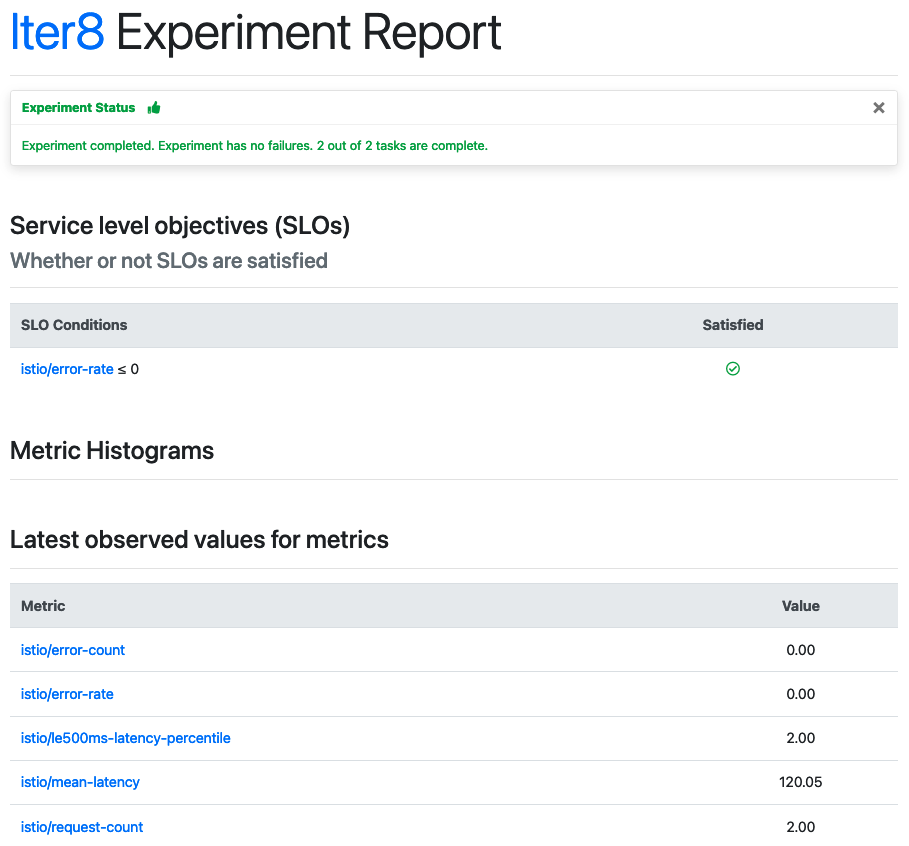
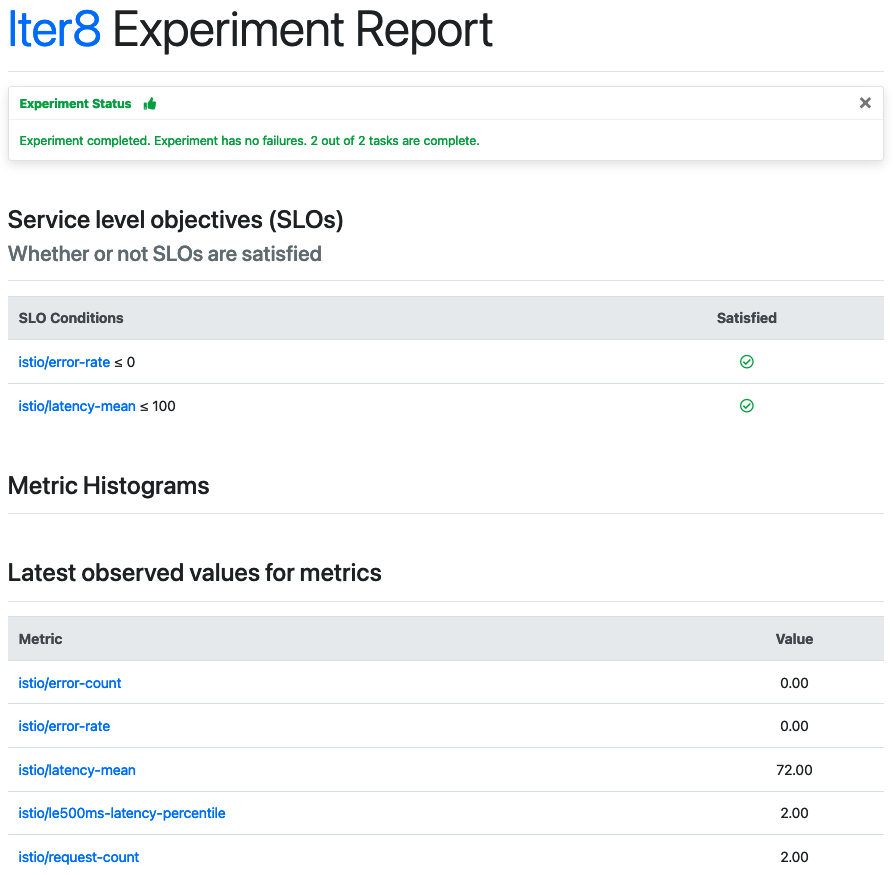
Address comments

diff --git a/docs/tutorials/load-test-http/expreport.md b/docs/tutorials/load-test-http/expreport.md
@@ -17,21 +17,33 @@
         Whether or not service level objectives (SLOs) are satisfied:
         *************************************************************
 
-          SLO Conditions        |Satisfied
-          --------------        |---------
-          istio/error-rate <= 0 |true
+          SLO Conditions                   |Satisfied
+          --------------                   |---------
+          http/error-rate <= 0             |true
+          http/latency-mean (msec) <= 50   |true
+          http/latency-p90 (msec) <= 100   |true
+          http/latency-p97.5 (msec) <= 200 |true
           
 
         Latest observed values for metrics:
         ***********************************
 
-          Metric                           |value
-          -------                          |-----
-          istio/error-count                |0.00
-          istio/error-rate                 |0.00
-          istio/le500ms-latency-percentile |2.00
-          istio/mean-latency               |120.05
-          istio/request-count              |2.00
+          Metric                     |value
+          -------                    |-----
+          http/error-count           |0.00
+          http/error-rate            |0.00
+          http/latency-max (msec)    |8.93
+          http/latency-mean (msec)   |5.49
+          http/latency-min (msec)    |2.71
+          http/latency-p50 (msec)    |5.38
+          http/latency-p75 (msec)    |6.71
+          http/latency-p90 (msec)    |7.77
+          http/latency-p95 (msec)    |8.27
+          http/latency-p97.5 (msec)  |8.60
+          http/latency-p99 (msec)    |8.80
+          http/latency-p99.9 (msec)  |8.92
+          http/latency-stddev (msec) |1.57
+          http/request-count         |100.00
         ```
 
 === "HTML"

diff --git a/docs/tutorials/slo-validation-istio/basicusage.md b/docs/tutorials/slo-validation-istio/basicusage.md
@@ -84,9 +84,9 @@ To collect metrics from a service, following must be set:
 ```shell
 iter8 launch -c slo-validation-istio \
 --set endpoint=http://localhost:9090 \
---set destination_workload=httpbin-v1 \
---set destination_workload_namespace=default \
---set startingTime="Feb 4\, 2014 at 6:05pm (PST)"
+--set versionInfo.destination_workload=httpbin-v1 \
+--set versionInfo.destination_workload_namespace=default \
+--set versionInfo.startingTime="Feb 4\, 2014 at 6:05pm (PST)"
 ```
 
 ## Validate SLOs
@@ -110,26 +110,26 @@ To validate SLOs in addition to collecting metrics, SLOs must also be provided.
 iter8 launch -c slo-validation-istio \
 --noDownload \
 --set endpoint=http://localhost:9090 \
---set destination_workload=httpbin-v1 \
---set destination_workload_namespace=default \
---set startingTime="Feb 4\, 2014 at 6:05pm (PST)" \
+--set versionInfo.destination_workload=httpbin-v1 \
+--set versionInfo.destination_workload_namespace=default \
+--set versionInfo.startingTime="Feb 4\, 2014 at 6:05pm (PST)" \
 --set SLOs.istio/error-rate=0 \
---set SLOs.istio/latency-mean=50
+--set SLOs.istio/latency-mean=100
 ```
 
 In the experiment above, the following SLOs are validated.
 
 - error rate is 0
-- mean latency is under 50 msec
+- mean latency is under 100 msec
 
 ***
 
 ## View experiment report
 
---8<-- "docs/tutorials/load-test-http/expreport.md"
+--8<-- "docs/tutorials/slo-validation-istio/expreport.md"
 
 ***
 
 ## Assert experiment outcomes
 
---8<-- "docs/tutorials/load-test-http/assert.md"
+--8<-- "docs/tutorials/slo-validation-istio/assert.md"

diff --git a/docs/tutorials/slo-validation-istio/expreport.md b/docs/tutorials/slo-validation-istio/expreport.md
@@ -1,0 +1,44 @@
+=== "Text"
+    ```shell
+    iter8 report
+    ```
+
+    ??? note "The text report looks like this"
+        ```shell
+
+        Experiment summary:
+        *******************
+
+          Experiment completed: true
+          No task failures: true
+          Total number of tasks: 2
+          Number of completed tasks: 2
+
+        Whether or not service level objectives (SLOs) are satisfied:
+        *************************************************************
+
+          SLO Conditions            |Satisfied
+          --------------            |---------
+          istio/error-rate <= 0     |true
+          istio/latency-mean <= 100 |true
+          
+
+        Latest observed values for metrics:
+        ***********************************
+
+          Metric                           |value
+          -------                          |-----
+          istio/error-count                |0.00
+          istio/error-rate                 |0.00
+          istio/latency-mean               |72.00
+          istio/le500ms-latency-percentile |2.00
+          istio/request-count              |2.00
+        ```
+
+=== "HTML"
+    ```shell
+    iter8 report -o html > report.html # view in a browser
+    ```
+
+    ??? note "The HTML report looks like this"
+        ![HTML report](images/report.html.png)

diff --git a/docs/tutorials/slo-validation-istio/assert.md b/docs/tutorials/slo-validation-istio/assert.md
@@ -1,0 +1,14 @@
+Assert that the experiment completed without failures, and all SLOs are satisfied.
+```shell
+iter8 assert -c completed -c nofailure -c slos
+```
+
+The `iter8 assert` command asserts if the experiment result satisfies conditions that are specified. If assert conditions are satisfied, it exits with code `0`; else, it exits with code `1`. Assertions are especially useful inside CI/CD/GitOps pipelines.
+
+??? note "Sample output from assert"
+    ```shell
+    INFO[2021-11-10 09:33:12] experiment completed
+    INFO[2021-11-10 09:33:12] experiment has no failure                    
+    INFO[2021-11-10 09:33:12] SLOs are satisfied                           
+    INFO[2021-11-10 09:33:12] all conditions were satisfied
+    ```
